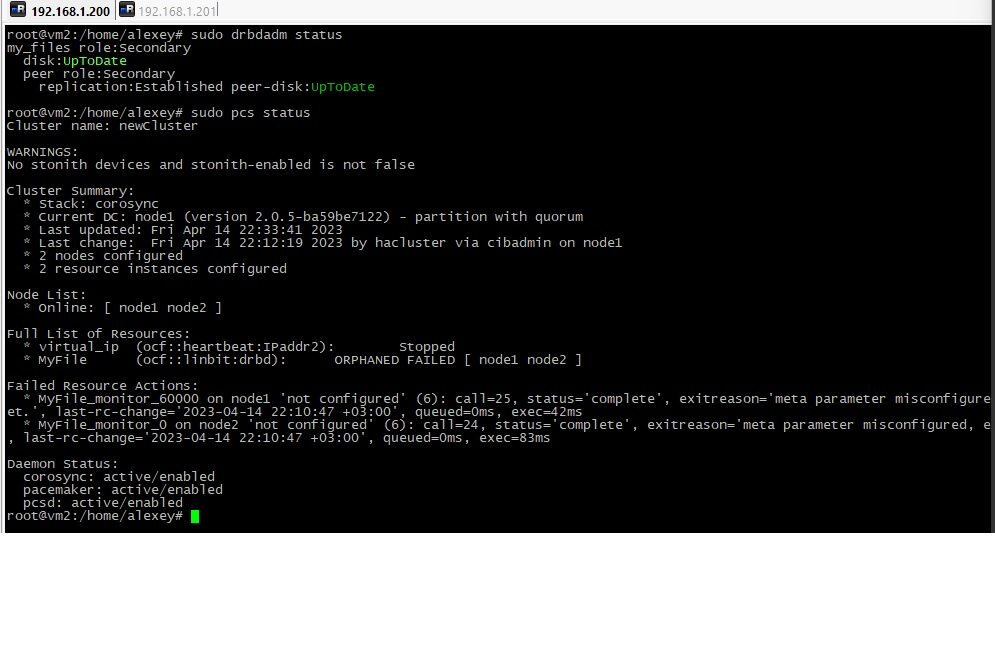
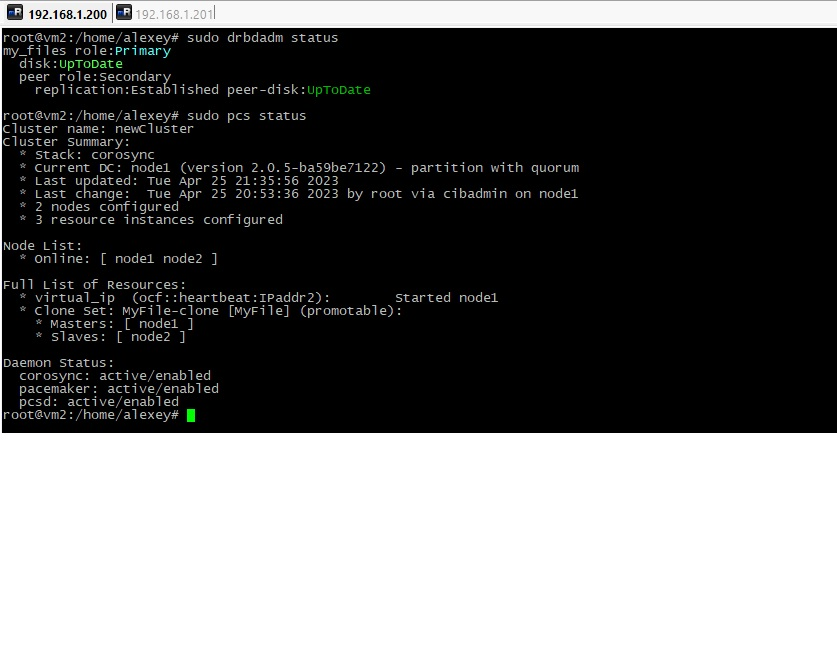
Работают ресурсы

Changed region(s): [[0.0, 0.0, 1.0, 0.8219]]

diff --git a/README.md b/README.md
@@ -5,25 +5,25 @@
 ` Pacemaker - менеджер ресурсов для кластеров высокой доступности с открытым исходным кодом. `
 ` Основные функции : `
 
-- 1. ` Поддержка кворумных и ресурсозависимых кластеров любого размера `
+1. ` Поддержка кворумных и ресурсозависимых кластеров любого размера `
 
-- 2. ` Обнаружение и восстановление после сбоев `
+2. ` Обнаружение и восстановление после сбоев `
 
-- 3. `Распаковываем и копируем в необходимые директории`
+3. `Распаковываем и копируем в необходимые директории`
 
-- 4. `Независимость от систем хранения - общий диск не нужен`
+4. `Независимость от систем хранения - общий диск не нужен`
 
-- 5. `Кластеризовано может быть всё, что описано`
+5. `Кластеризовано может быть всё, что описано`
 
-- 6. `Автоматическая репликация на все узлы`
+6. `Автоматическая репликация на все узлы`
 
-- 7. `Поддержка Shut The Other Node In The Head (STONITH - это возможность сделать узел неспособным запускать ресурсы, даже если этот узел не отвечает на команды кластера) `
+7. `Поддержка Shut The Other Node In The Head (STONITH - это возможность сделать узел неспособным запускать ресурсы, даже если этот узел не отвечает на команды кластера) `
 
-- 8. `Возможность задания порядка запуска ресурсов, а также их совместимости на одном узле`
+8. `Возможность задания порядка запуска ресурсов, а также их совместимости на одном узле`
 
-- 9. `Поддержка расширенных типов ресурсов: клонов (запущен на множестве узлов) и с дополнительными состояниями (master/slave и т.п.) `
+9. `Поддержка расширенных типов ресурсов: клонов (запущен на множестве узлов) и с дополнительными состояниями (master/slave и т.п.) `
 
-- 10. `Единые инструменты управления кластером с поддержкой сценариев `
+10. `Единые инструменты управления кластером с поддержкой сценариев `
 
 
 ### Задание 2. Основные функции и назначение Corosync.
@@ -31,43 +31,43 @@
 `Corosync(Corosync Cluster Engine) -  проект с открытым кодом, предназначенный для создания кластеров высокой доступности, основной задачей которого является знать и передавать состояние всех узлов  `
 ` Основные функции : `
 
-- 1. `Отслеживание состояния приложений`
+1. `Отслеживание состояния приложений`
 
-- 2. `Оповещение приложений о смене активной ноды кластера`
+2. `Оповещение приложений о смене активной ноды кластера`
 
-- 3. `Отправка одинаковых сообщений процессам на всех узлах кластера`
+3. `Отправка одинаковых сообщений процессам на всех узлах кластера`
 
-- 4. `предоставление доступа к базе данных с конфигурацией и статистикой, а также отправка уведомлений о ее изменениях`
+4. `предоставление доступа к базе данных с конфигурацией и статистикой, а также отправка уведомлений о ее изменениях`
 
   
 
 ### Задание 3. Настройка HA-Claster (Pacemaker, Corosync,Pcs).
 
-- 1. `Устанавливаем пакеты (pcs -система настройки pacemaker/corosync )`
+1. `Устанавливаем пакеты (pcs -система настройки pacemaker/corosync )`
 
     sudo apt install pacemaker corosync pcs
 
-- 2. `Добавляем на всех узлах pcs  в автозагрузку`
+2. `Добавляем на всех узлах pcs  в автозагрузку`
 
     systemctl enable pcsd
 
-- 3. `Изменяем пароль пользователю hacluster, созданному при установке Pacemaker`
+3. `Изменяем пароль пользователю hacluster, созданному при установке Pacemaker`
 
     passwd hacluster
 
-- 4. `Запускаем сервис`
+4. `Запускаем сервис`
 
     systemctl start pcsd
 
-- 5. `Настраиваем аутентификацию (на одном узле, username - hacluster)`
+5. `Настраиваем аутентификацию (на одном узле, username - hacluster)`
 
     pcs host auth <Сервер_1> <Сервер_2>
 
-- 6. `Обязательно проверить включена ли служба pcsd на обоих узлах!`
+6. `Обязательно проверить включена ли служба pcsd на обоих узлах!`
 
     systemctl status pcsd
 
-- 7. `Запускаем ноды`
+7. `Запускаем ноды`
 
     pcs cluster setup <Название_кластера> <Сервер_1> <Сервер_2>
 
@@ -84,17 +84,17 @@
     pcs host auth node1 node2
     sudo pcs cluster setup --force newCluster node1 node2
 
-- 8. `Делаем все ноды активными`
+8. `Делаем все ноды активными`
 
     pcs cluster enable --all
 
-- 9. `Добавляем все службы в автозапуск на основном сервере(? - на всех серверах и обязательно проверяем статус!)`
+9. `Добавляем все службы в автозапуск на основном сервере(? - на всех серверах и обязательно проверяем статус!)`
 
     systemctl enable pcsd
     systemctl enable corosync
     systemctl enable pacemaker
 
-- 10. `Проверяем (или через gui (port 2224) - добавить ноду в Add Existing)`
+10. `Проверяем (или через gui (port 2224) - добавить ноду в Add Existing)`
 
     pcs status
 
@@ -107,16 +107,16 @@
 
 `Настраиваем 3 интерфейса: первый - для доступа к нодам, второй - для Heartbeat, третий - для синхронизации DRBD-ресурсов  `
 
-- 1. `Ставим пакет`
+1. `Ставим пакет`
 
     sudo apt install drbd-utils
 
-- 2. `Подключаем модули ядра`
+2. `Подключаем модули ядра`
 
     sudo modprobe drbd
     echo “drbd” >> /etc/modules
 
-- 3. `Добавляем диск (не забываем ставить lvm2)`
+3. `Добавляем диск (не забываем ставить lvm2)`
 
     lsblk
     fdisk dev/sdb1
@@ -124,7 +124,7 @@
     vgcreate vg0 /dev/sdb1
     lvcreate -l 90%VG -n test vg0
 
-- 4. `Создаем конфиг /etc/drbd.d/my_files.res `
+4. `Создаем конфиг /etc/drbd.d/my_files.res `
 
     touch /etc/drbd.d/my_files.res
 
@@ -159,31 +159,47 @@
     }
 
 
-- 5. `Выполняем на обеих нодах `
+5. `Выполняем на обеих нодах `
 
     drbdadm create-md  my_files
     drbdadm up all
 
-- 6. `Выполняем на первой ноде `
+6. `Выполняем на первой ноде `
 
     drbdadm primary --force my_files
 
- - 6. `Выполняем на второй ноде `
+7. `Выполняем на второй ноде `
 
     drbdadm secondary my_files
 
-- 7. `Подключаем разделы `
+8. `Подключаем разделы `
 
     mkdir /mnt/test
     mount /dev/drbd2 /mnt/test
 
 
--![Скриншот Grafana](./img/4.jpg)
-
-- 8. `Подключаем ресурс в кластер`
+9. `Подключаем ресурс в кластер`
 
     pcs create MyFile ocf:linbit:drbd drbd_resource=/dev/drbd2 op monitor interval=60s
     pcs -f drbd_cfg resource promotable MyFile promoted-max=1 promoted-node-max=1 clone-max=2 clone-node-max=1 notify=true
+
+
+` Но ресурсы не стартуют...`
+
+`Вопрос с drbd решился следующим образом:`
+
+    apt install --reinstall drbd-utils
+    sudo pcs resource update  MyFile ocf:linbit:drbd drbd_resource=my_files
+
+`Вопрос c Ipaddr2 решился следующим образом:`
+
+    cp /usr/lib/ocf/lib/heartbeat/* /lib/heartbeat/
+    sudo pcs property set stonith-enabled=false
+
+`В обоих случаях для дебага помогла команда:`
+
+    sudo pcs resource debug-promote <имя_ресурса>
+
 
 
 -![Скриншот Node1](./img/4_1.jpg)
